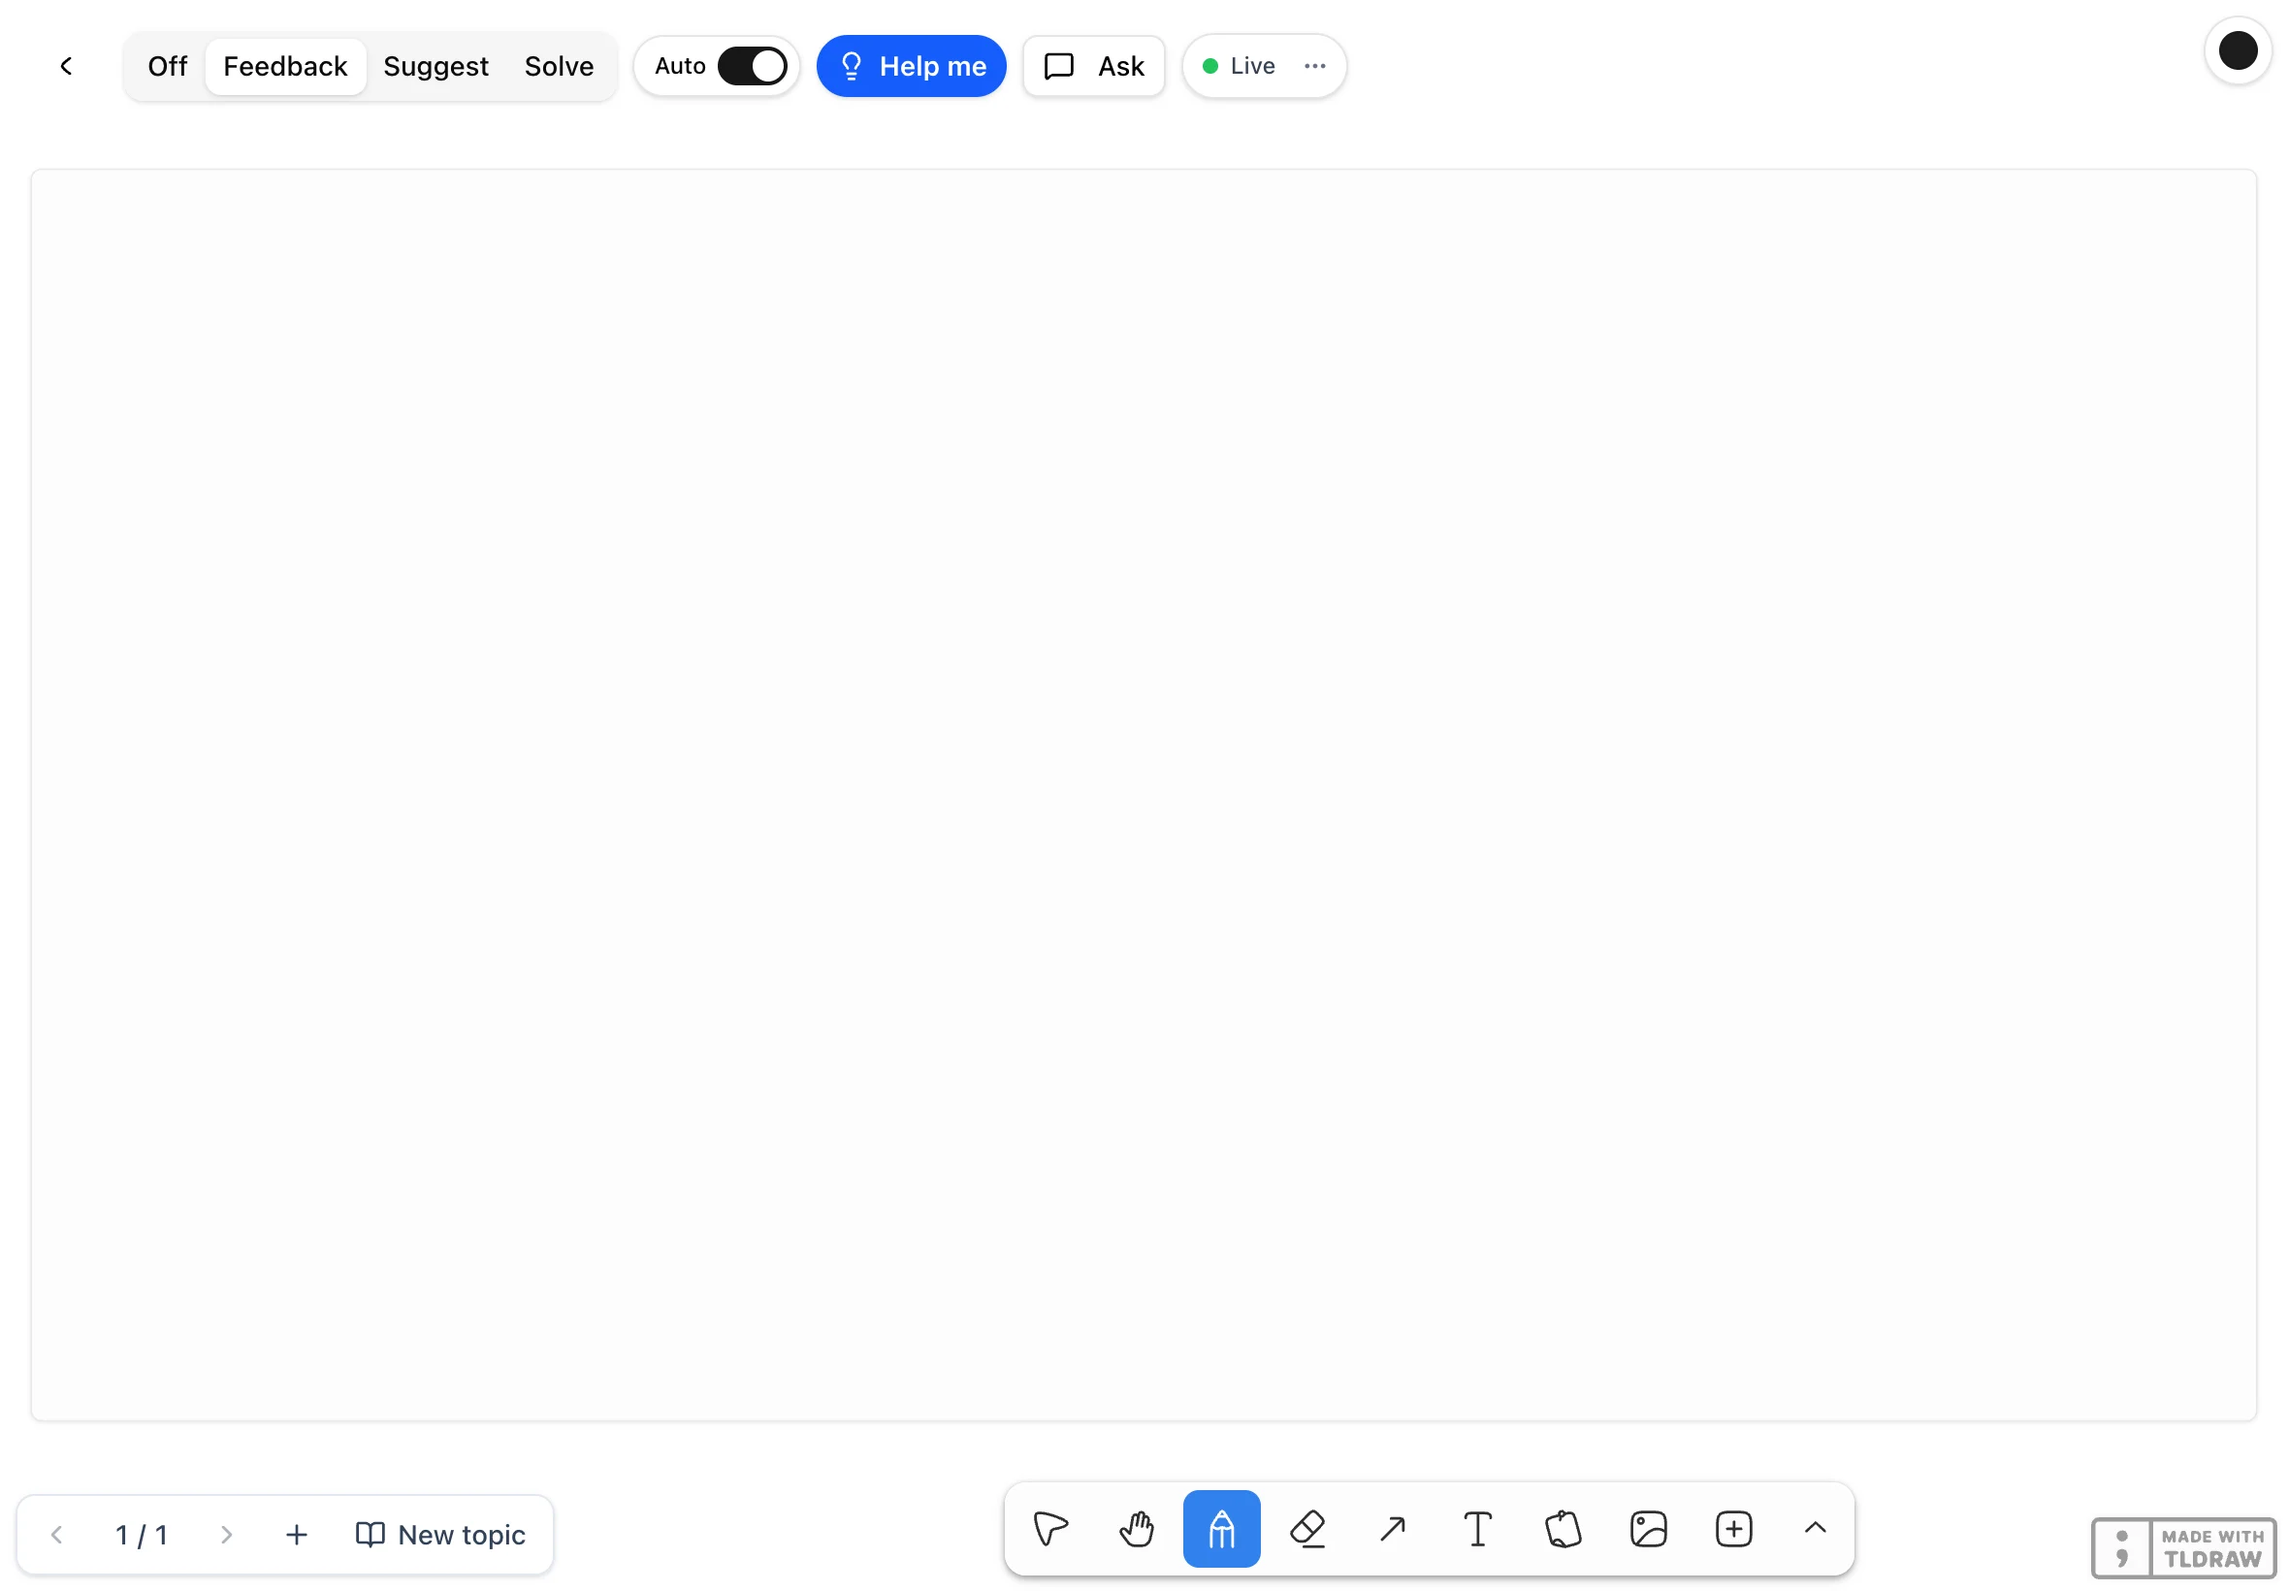
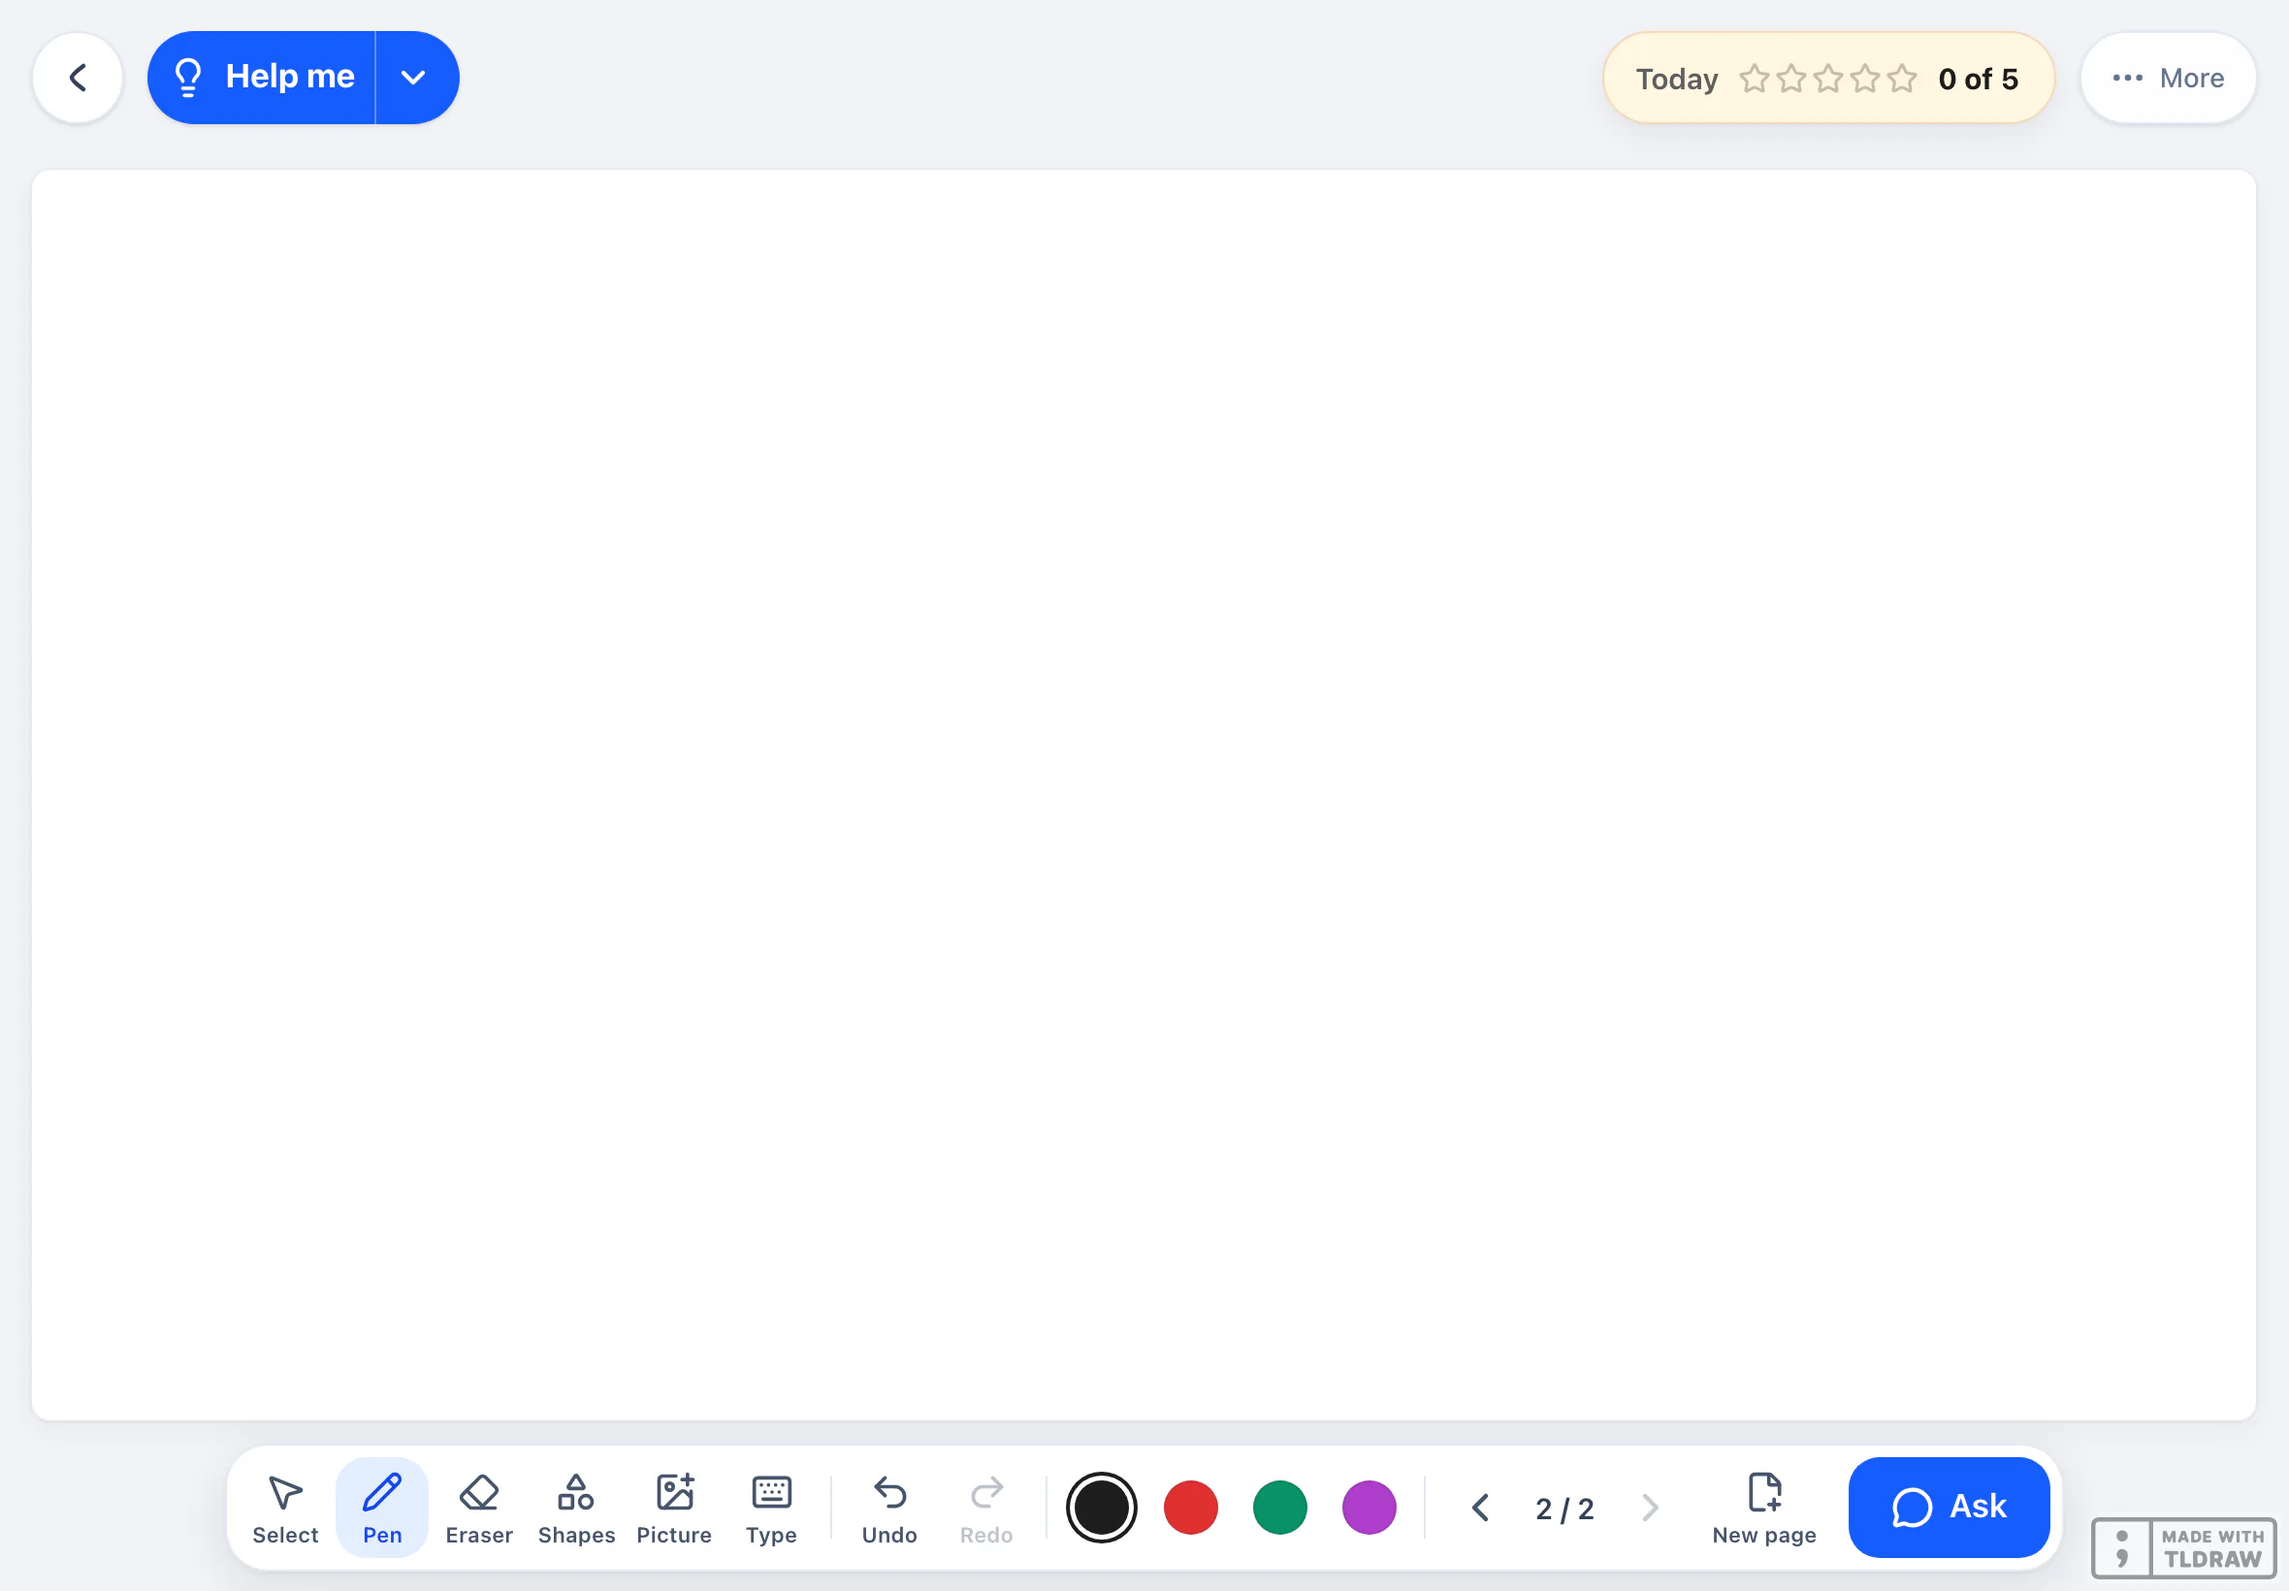
feat(landing): the hero's iPad shows today's simple board, and its replay waits until it is really in view
- board-ipad.webp is a new screenshot of the real board (1180 x 820 at 2x, Chromium, local dev): a
  1st grader taps Start on Today's practice, then New page, so the screen is empty and the day's pill
  is up top. Top bar: Back, Help me with its ▾, "Today ☆☆☆☆☆ 0 of 5", More. Dock: Select, Pen, Eraser,
  Shapes, Picture, Type, Undo, Redo, the colors, ‹ 2 / 2 ›, New page and the big blue Ask. The white
  screen on the soft grey table. "Made with tldraw" stays: the production license carries the
  watermark flag, so agathon.app shows it too. Only Next's dev badge was hidden. 33 KB (q82).
- CANVAS is the board's white screen as tldraw places it (16,87 to 1164,733; it was 16,88 / 644 tall),
  clear of the top bar (ends at 64) and the dock (starts at 744). SCREEN, SCALE 2 and the centring
  are unchanged: the three sums sit centred with about 97 px above and below at 1440.
- The replay's hold: the inline script and holdUntilSeen released it when the observer's first report
  came before the iPad had a height (0 >= half of 0), which happens while its stylesheet is still
  loading (seen in Chromium dev at 1440 x 900: the sums had been written before anyone scrolled to
  them). An iPad with no height is not in view now, as INK_START_SCRIPT already does.
- Tests: the ink stays inside the canvas with room on every side and centred, the canvas is between
  the bar and the dock, and the hold script (run against a stand-in page) waits for a laid-out iPad
  half in view.

diff --git a/src/components/landing/__tests__/boardReplay.test.tsx b/src/components/landing/__tests__/boardReplay.test.tsx
@@ -1,0 +1,101 @@
+import { describe, expect, it } from "vitest";
+import { pathBounds } from "@/lib/landing/replay";
+import { HERO_BOARD } from "../BoardReplay";
+import { halfInView, REPLAY_ID, REPLAY_START_SCRIPT } from "../replayStart";
+
+const { SCREEN, CANVAS, CHROME, SCALE, CHEER_GAP, MISS_WIDTH, LEFT, TOP, lines } = HERO_BOARD;
+
+/** Everything the replay draws on the canvas, in canvas px: every stroke, and the ring's note beside it. */
+function inkBox() {
+  let minX = Infinity;
+  let minY = Infinity;
+  let maxX = -Infinity;
+  let maxY = -Infinity;
+  for (const line of lines) {
+    for (const stroke of line.strokes) {
+      const b = pathBounds(stroke.d);
+      minX = Math.min(minX, LEFT + (line.x + b.minX) * SCALE);
+      maxX = Math.max(maxX, LEFT + (line.x + b.maxX) * SCALE);
+      minY = Math.min(minY, TOP + (line.y + b.minY) * SCALE);
+      maxY = Math.max(maxY, TOP + (line.y + b.maxY) * SCALE);
+    }
+    if (line.mark === "ring") maxX = Math.max(maxX, LEFT + (line.x + line.width + CHEER_GAP) * SCALE + MISS_WIDTH);
+  }
+  return { minX, minY, maxX, maxY };
+}
+
+describe("the hero's board", () => {
+  it("draws on the board's white screen, between its top bar and its dock", () => {
+    expect(CANVAS.left).toBeGreaterThanOrEqual(0);
+    expect(CANVAS.left + CANVAS.width).toBeLessThanOrEqual(SCREEN.width);
+    expect(CANVAS.top).toBeGreaterThan(CHROME.barBottom);
+    expect(CANVAS.top + CANVAS.height).toBeLessThan(CHROME.dockTop);
+  });
+
+  it("writes inside the canvas with room to spare, the block centred on it", () => {
+    const box = inkBox();
+    const margin = 48;
+    expect(box.minX).toBeGreaterThan(margin);
+    expect(box.minY).toBeGreaterThan(margin);
+    expect(box.maxX).toBeLessThan(CANVAS.width - margin);
+    expect(box.maxY).toBeLessThan(CANVAS.height - margin);
+    // as much room above the writing as below it, and either side of the writing and its note
+    expect(Math.abs(box.minY - (CANVAS.height - box.maxY))).toBeLessThan(4);
+    expect(Math.abs(box.minX - (CANVAS.width - box.maxX))).toBeLessThan(80);
+  });
+
+  it("writes at a child's size: each line well over 40 px tall on the 820 px board", () => {
+    for (const line of lines) expect(line.height * SCALE).toBeGreaterThan(40);
+  });
+});
+
+/** Runs the inline hold script against a stand-in page; returns the observer's callback and the hold. */
+function runStartScript() {
+  let report: ((entries: unknown[]) => void) | null = null;
+  const hold = { id: "", textContent: "", removed: false, remove() {
+    this.removed = true;
+  } };
+  const head: unknown[] = [];
+  const document = {
+    getElementById: (id: string) => (id === REPLAY_ID ? {} : null),
+    createElement: () => hold,
+    head: { appendChild: (el: unknown) => head.push(el) },
+  };
+  class IntersectionObserver {
+    constructor(cb: (entries: unknown[]) => void) {
+      report = cb;
+    }
+    observe() {}
+    disconnect() {}
+  }
+  const window = { IntersectionObserver };
+  new Function("window", "document", "IntersectionObserver", REPLAY_START_SCRIPT)(window, document, IntersectionObserver);
+  const entry = (height: number, visible: number) => ({ boundingClientRect: { height }, intersectionRect: { height: visible } });
+  return { hold, head, report: (height: number, visible: number) => report?.([entry(height, visible)]) };
+}
+
+describe("the replay's hold", () => {
+  it("holds the replay until half the iPad is in view", () => {
+    const page = runStartScript();
+    expect(page.head).toEqual([page.hold]);
+    page.report(706, 260);
+    expect(page.hold.removed).toBe(false);
+    page.report(706, 353);
+    expect(page.hold.removed).toBe(true);
+  });
+
+  it("keeps holding while the iPad has no height yet (its stylesheet still loading)", () => {
+    const page = runStartScript();
+    page.report(0, 0);
+    expect(page.hold.removed).toBe(false);
+    page.report(746, 259);
+    expect(page.hold.removed).toBe(false);
+  });
+
+  it("halfInView: half the height in view, never a box with no height", () => {
+    const at = (height: number, visible: number) => halfInView({ boundingClientRect: { height } as DOMRectReadOnly, intersectionRect: { height: visible } as DOMRectReadOnly });
+    expect(at(0, 0)).toBe(false);
+    expect(at(400, 199)).toBe(false);
+    expect(at(400, 200)).toBe(true);
+  });
+});

diff --git a/src/components/landing/BoardReplay.tsx b/src/components/landing/BoardReplay.tsx
@@ -9,10 +9,15 @@ import { REPLAY_ID, REPLAY_START_SCRIPT } from "./replayStart";
 import styles from "./device.module.css";
 
 /**
- * The hero: an iPad with a real Agathon board on it (a 1st grader's simple board), and three sums
- * being written and marked on it, stroke by stroke (`replayTimeline`). A parent sees what the product
- * does before reading a word: a check mark and a cheer for a right answer, a circle and "So close!"
- * for a slip.
+ * The hero: an iPad with a real Agathon board on it, and three sums being written and marked on it,
+ * stroke by stroke (`replayTimeline`). A parent sees what the product does before reading a word: a
+ * check mark and a cheer for a right answer, a circle and "So close!" for a slip.
+ *
+ * The board is the simple board every kid has (2026-10-12): a 1st grader's Today's practice, on a
+ * fresh page of her own (New page, so "2 / 2"), the day's pill still up top at 0 of 5. Top bar:
+ * Back, Help me ▾, Today, More. Dock: Select, Pen, Eraser, Shapes, Picture, Type, Undo, Redo, the
+ * colors, ‹ 2 / 2 ›, New page and Ask. The white screen sits on the soft grey table, and tldraw's
+ * "Made with tldraw" stays, as on agathon.app (the license carries the watermark).
  *
  * Server-rendered and static. The screen is a screenshot of the real board; the ink is SVG drawn
  * over its canvas; the replay is CSS animations, held at the start until the iPad is half in view
@@ -21,10 +26,16 @@ import styles from "./device.module.css";
  * component.
  */
 
-/** The screenshot (public/landing/board-ipad.webp), in CSS px of the board it was taken from. */
+/** The screenshot (public/landing/board-ipad.webp, at 2x), in CSS px: an iPad Air held sideways. */
 const SCREEN = { width: 1180, height: 820 } as const;
-/** The board's empty canvas in the screenshot: below the kid's toolbar, clear of the page dots. */
-const CANVAS = { left: 16, top: 88, width: 1148, height: 644 } as const;
+/**
+ * The board's white screen in the screenshot, hairline included (tldraw's own page-to-screen of the
+ * 16:9 screen: 16,87 to 1164,733). The top bar (Back, Help me, Today, More) ends at 64 and the dock
+ * starts at 744, so the ink never meets either.
+ */
+const CANVAS = { left: 16, top: 87, width: 1148, height: 646 } as const;
+/** Where the screenshot's top bar ends and its dock begins, in its CSS px. */
+const CHROME = { barBottom: 64, dockTop: 744 } as const;
 /** Board units to canvas pixels: the ink a little larger than life, as an iPad shows it zoomed. */
 const SCALE = 2;
 /** Board units between one line and the next. */
@@ -50,6 +61,9 @@ function composition() {
   return { left: (CANVAS.width - (maxX - minX)) / 2 - minX, top: (CANVAS.height - COLUMN_HEIGHT) / 2 };
 }
 const { left: LEFT, top: TOP } = composition();
+
+/** The hero's layout, for its tests: the screenshot's measures and where the writing goes on it. */
+export const HERO_BOARD = { SCREEN, CANVAS, CHROME, SCALE, CHEER_GAP, MISS_WIDTH, LEFT, TOP, lines: REPLAY.lines } as const;
 
 const pct = (value: number, of: number) => `${((value / of) * 100).toFixed(3)}%`;
 

diff --git a/src/components/landing/replayStart.ts b/src/components/landing/replayStart.ts
@@ -25,15 +25,19 @@ export const REPLAY_START_SCRIPT =
   `if(!("IntersectionObserver" in window))return;` +
   `var s=document.createElement("style");s.id=${JSON.stringify(HOLD_ID)};` +
   `s.textContent="#${REPLAY_ID} path,#${REPLAY_ID} span{animation-play-state:paused!important}";document.head.appendChild(s);` +
-  `var o=new IntersectionObserver(function(e){for(var i=0;i<e.length;i++)if(e[i].intersectionRect.height>=${REPLAY_VISIBLE}*e[i].boundingClientRect.height){o.disconnect();s.remove()}},{threshold:[0,.1,.2,.3,.4,.5,.6,.7,.8,.9,1]});` +
+  // an iPad not laid out yet (no height: its stylesheet still coming) is not in view
+  `var o=new IntersectionObserver(function(e){for(var i=0;i<e.length;i++){var h=e[i].boundingClientRect.height;if(h>0&&e[i].intersectionRect.height>=${REPLAY_VISIBLE}*h){o.disconnect();s.remove()}}},{threshold:[0,.1,.2,.3,.4,.5,.6,.7,.8,.9,1]});` +
   `o.observe(f)})();`;
 
 /**
  * Half the iPad's height in view. Height, not area: on a phone the iPad runs off both edges, so its
- * visible area never reaches half of its box however far a parent scrolls.
+ * visible area never reaches half of its box however far a parent scrolls. An iPad with no height
+ * yet (its stylesheet still loading, as in development) is not in view: the observer's first report
+ * can come before the page is laid out, and 0 ≥ half of 0 would let the replay go unseen.
  */
-function halfInView(entry: IntersectionObserverEntry): boolean {
-  return entry.intersectionRect.height >= REPLAY_VISIBLE * entry.boundingClientRect.height;
+export function halfInView(entry: Pick<IntersectionObserverEntry, "intersectionRect" | "boundingClientRect">): boolean {
+  const height = entry.boundingClientRect.height;
+  return height > 0 && entry.intersectionRect.height >= REPLAY_VISIBLE * height;
 }
 const THRESHOLDS = [0, 0.1, 0.2, 0.3, 0.4, 0.5, 0.6, 0.7, 0.8, 0.9, 1];
 

diff --git a/src/components/landing/device.module.css b/src/components/landing/device.module.css
@@ -84,7 +84,10 @@
   stroke-width: 4.2;
 }
 
-/* What the board says as it marks a line (the board's own Celebrations, src/components/live). */
+/* What the board says as it marks a line (the board's own Celebrations, src/components/live: a
+   rounded bubble beside the mark, bold white praise on emerald, a kind word on amber-50; unchanged
+   by the 2026-10-12 simple board). The praise's emerald is a shade deeper than the board's 500 so
+   its white text reads at 4.5:1 on the page. */
 .cheer {
   position: absolute;
   border-radius: 1.1em;
